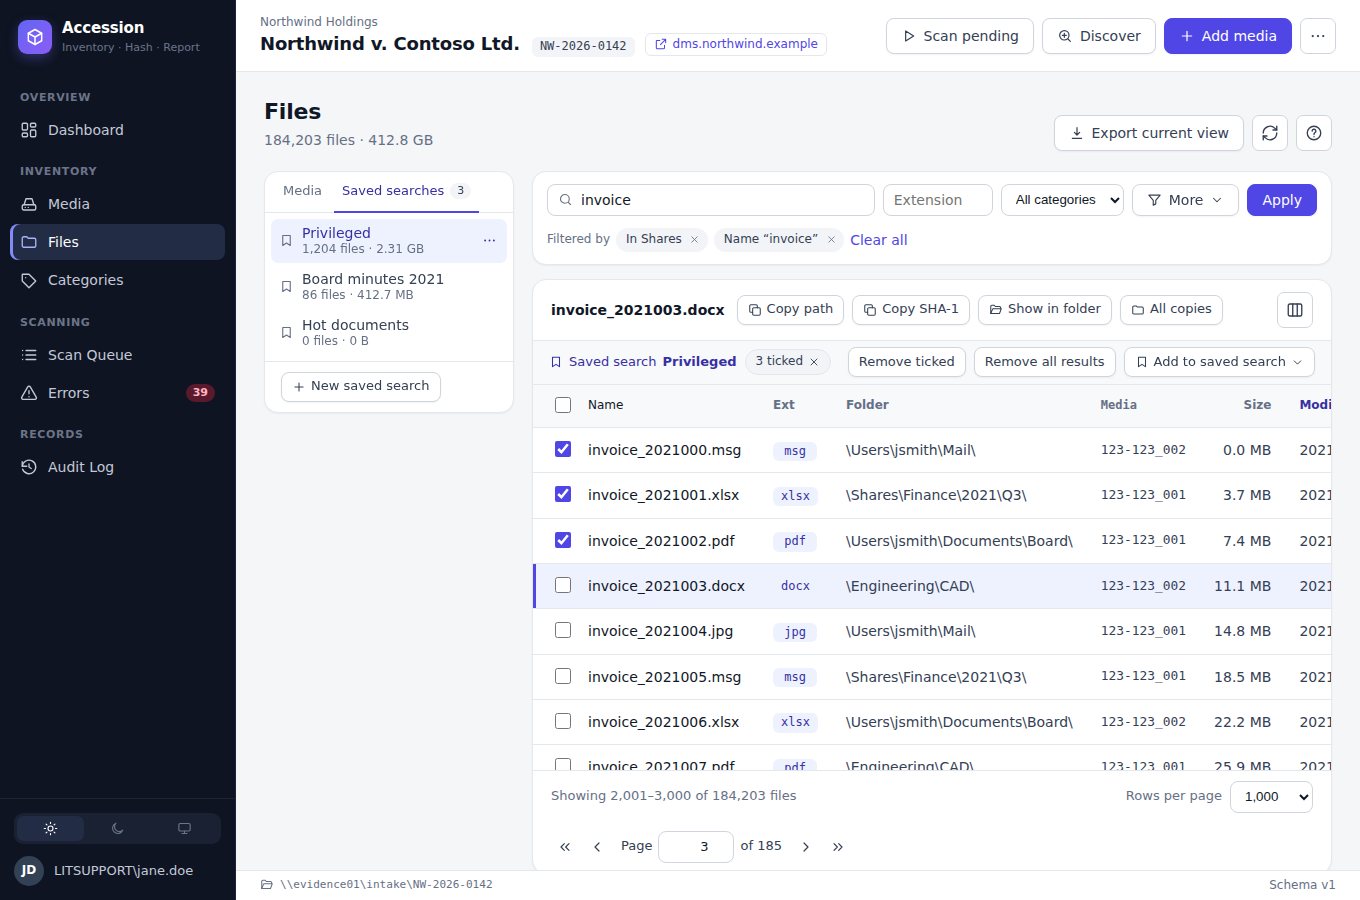
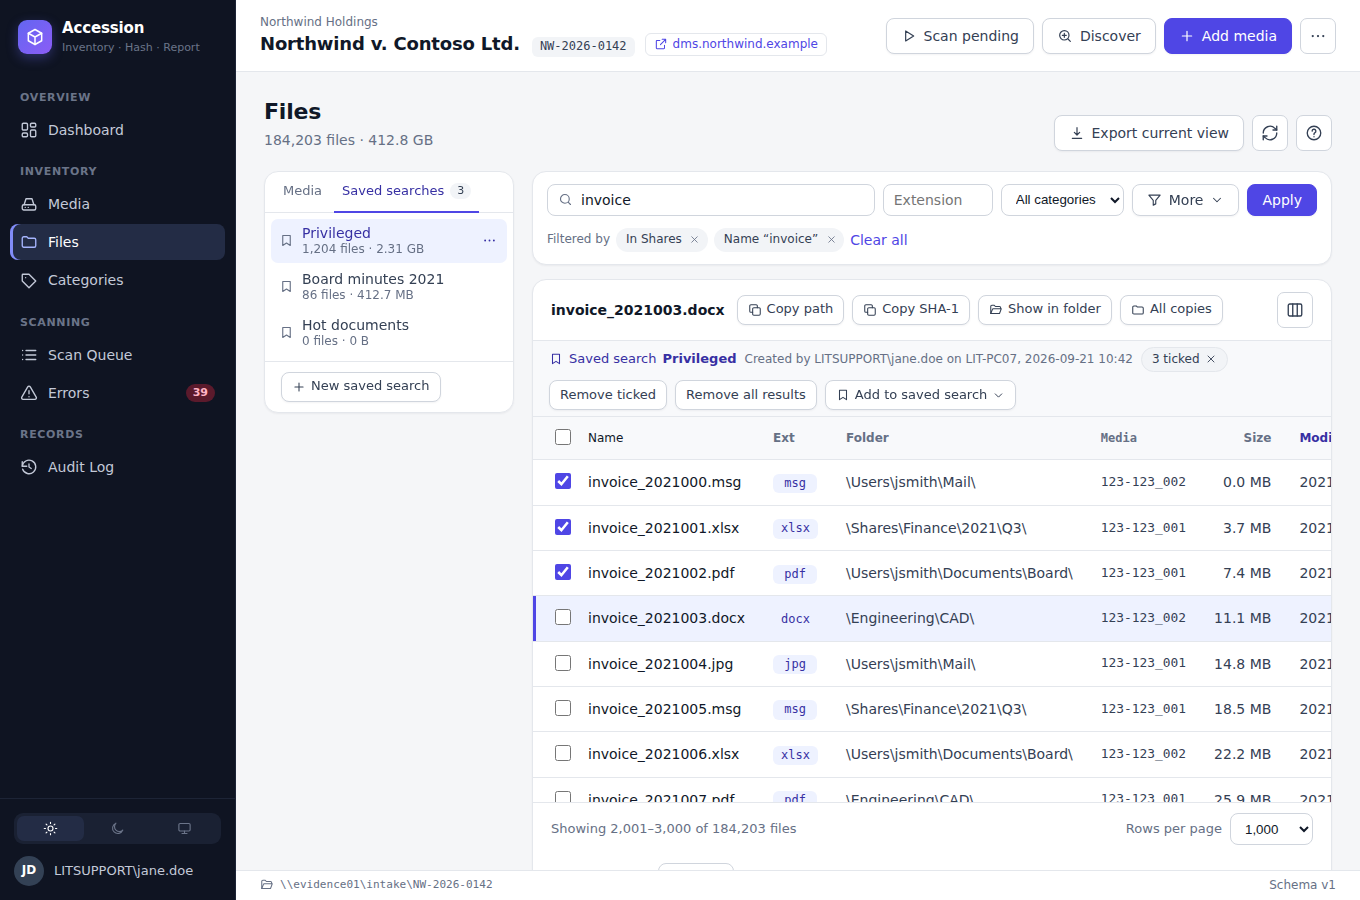
Saved searches: record the computer; show who created it and where
- Schema v3: SavedSearch.CreatedOnMachine and ModifiedOnMachine, next to
  the user and time already kept. Creating, editing and adding or removing
  files record this computer. A v2 inventory is upgraded with a backup;
  existing saved searches take the computer from the audit log entry of
  their creation (and last change).
- When a saved search is shown, the bar above the table says "Created by
  CORP\jdoe on WS-114, 2026-09-27 14:10"; the list's tooltip shows the
  description and the same line. The edit dialog shows Created and Last
  changed (user, computer, time).
- Help text, screenshots and SAV-01 updated.

Closes #85

Claude-Session: https://claude.ai/code/session_01UTQuWakbAyEFAKq5RSeUfc

Changed region(s): [[0.4015, 0.3733, 0.9882, 0.9644]]

diff --git a/src/Accession.App/wwwroot/help/index.html b/src/Accession.App/wwwroot/help/index.html
@@ -200,7 +200,8 @@
                     <p>A file already in the list is not added twice.</p>
                     <h3>Working with a saved search</h3>
                     <ul>
-                        <li>Click it on the <strong>Saved searches</strong> tab to show its files; the filters narrow within it.</li>
+                        <li>Click it on the <strong>Saved searches</strong> tab to show its files; the filters narrow within it. The bar above
+                            the table shows who created it, on which computer and when (hover over it in the list for the description too).</li>
                         <li><strong>Remove ticked</strong> and <strong>Remove all results</strong> take files out of it (the files themselves
                             are not changed).</li>
                         <li>The <strong>⋯</strong> menu has <strong>Edit</strong> (name and description) and <strong>Delete</strong>.</li>

diff --git a/src/Accession.Data/SavedSearches/SavedSearchService.cs b/src/Accession.Data/SavedSearches/SavedSearchService.cs
@@ -18,8 +18,13 @@ public sealed class SavedSearchInfo
     public long TotalBytes { get; init; }
     public DateTimeOffset CreatedAtUtc { get; init; }
     public string CreatedBy { get; init; } = string.Empty;
+
+    /// <summary>Null for saved searches from before schema v3 whose creation is not in the audit log.</summary>
+    public string? CreatedOnMachine { get; init; }
+
     public DateTimeOffset ModifiedAtUtc { get; init; }
     public string ModifiedBy { get; init; } = string.Empty;
+    public string? ModifiedOnMachine { get; init; }
 }
 
 /// <summary>Another saved search already has this name.</summary>
@@ -41,7 +46,8 @@ public sealed class SavedSearchService(InventorySessionFactory factory)
         using var scope = database.Open();
         return scope.Connection.Query<SavedSearchInfo>(new CommandDefinition(
             """
-            SELECT s.SavedSearchId, s.Name, s.Description, s.CreatedAtUtc, s.CreatedBy, s.ModifiedAtUtc, s.ModifiedBy,
+            SELECT s.SavedSearchId, s.Name, s.Description, s.CreatedAtUtc, s.CreatedBy, s.CreatedOnMachine,
+                   s.ModifiedAtUtc, s.ModifiedBy, s.ModifiedOnMachine,
                    COUNT(f.FileId) AS FileCount, COALESCE(SUM(f.SizeBytes), 0) AS TotalBytes
             FROM SavedSearch s
             LEFT JOIN SavedSearchFile sf ON sf.SavedSearchId = s.SavedSearchId
@@ -80,11 +86,11 @@ public sealed class SavedSearchService(InventorySessionFactory factory)
             var now = UtcTimestamp.ToText(factory.TimeProvider.GetUtcNow());
             var id = SaveName(cleanName, () => scope.Connection.ExecuteScalar<long>(
                 """
-                INSERT INTO SavedSearch (Name, Description, CreatedAtUtc, CreatedBy, ModifiedAtUtc, ModifiedBy)
-                VALUES (@cleanName, @cleanDescription, @now, @user, @now, @user);
+                INSERT INTO SavedSearch (Name, Description, CreatedAtUtc, CreatedBy, CreatedOnMachine, ModifiedAtUtc, ModifiedBy, ModifiedOnMachine)
+                VALUES (@cleanName, @cleanDescription, @now, @user, @machine, @now, @user, @machine);
                 SELECT last_insert_rowid();
                 """,
-                new { cleanName, cleanDescription, now, user = session.UserName }, scope.Transaction));
+                new { cleanName, cleanDescription, now, user = session.UserName, machine = factory.User.MachineName }, scope.Transaction));
             session.Audit.Write(scope, AuditAction.SavedSearchCreated, details: new { SavedSearchId = id, Name = cleanName, Description = cleanDescription });
             return id;
         });
@@ -99,10 +105,15 @@ public sealed class SavedSearchService(InventorySessionFactory factory)
             var before = Get(scope, savedSearchId);
             SaveName(cleanName, () => scope.Connection.Execute(
                 """
-                UPDATE SavedSearch SET Name = @cleanName, Description = @cleanDescription, ModifiedAtUtc = @now, ModifiedBy = @user
+                UPDATE SavedSearch SET Name = @cleanName, Description = @cleanDescription, ModifiedAtUtc = @now, ModifiedBy = @user,
+                    ModifiedOnMachine = @machine
                 WHERE SavedSearchId = @savedSearchId
                 """,
-                new { cleanName, cleanDescription, now = UtcTimestamp.ToText(factory.TimeProvider.GetUtcNow()), user = session.UserName, savedSearchId },
+                new
+                {
+                    cleanName, cleanDescription, now = UtcTimestamp.ToText(factory.TimeProvider.GetUtcNow()), user = session.UserName,
+                    machine = factory.User.MachineName, savedSearchId,
+                },
                 scope.Transaction));
             session.Audit.Write(scope, AuditAction.SavedSearchChanged, details: new
             {
@@ -237,8 +248,8 @@ public sealed class SavedSearchService(InventorySessionFactory factory)
 
     private void Touch(DbScope scope, long savedSearchId, string user) =>
         scope.Connection.Execute(
-            "UPDATE SavedSearch SET ModifiedAtUtc = @now, ModifiedBy = @user WHERE SavedSearchId = @savedSearchId",
-            new { now = UtcTimestamp.ToText(factory.TimeProvider.GetUtcNow()), user, savedSearchId }, scope.Transaction);
+            "UPDATE SavedSearch SET ModifiedAtUtc = @now, ModifiedBy = @user, ModifiedOnMachine = @machine WHERE SavedSearchId = @savedSearchId",
+            new { now = UtcTimestamp.ToText(factory.TimeProvider.GetUtcNow()), user, machine = factory.User.MachineName, savedSearchId }, scope.Transaction);
 
     private sealed class NameRow
     {

diff --git a/tests/Accession.Tests/Presentation/FilesSavedSearchTests.cs b/tests/Accession.Tests/Presentation/FilesSavedSearchTests.cs
@@ -65,6 +65,8 @@ public sealed class FilesSavedSearchTests : IDisposable
 
         var row = Assert.Single(vm.SavedSearches);
         Assert.Equal(("PDFs", "30 files"), (row.Name, row.Files));
+        Assert.StartsWith(@"Created by CORP\jdoe on WS-114, ", row.Created, StringComparison.Ordinal);
+        Assert.Equal("from M2\n" + row.Created, row.Tooltip);
 
         vm.SelectedSavedSearch = row;
         await Idle(vm);
@@ -159,13 +161,28 @@ public sealed class FilesSavedSearchTests : IDisposable
 
         Assert.Contains("New saved search", html);
         Assert.Contains("Another saved search already has this name.", html);
+        Assert.DoesNotContain("Last changed", html); // only when editing
         Assert.Contains("Description", html);
         Assert.Contains(">Create<", html);
     }
 
+    [Fact]
+    public async Task Edit_form_shows_who_created_and_changed_it_where()
+    {
+        var id = _service.Create(_test.Session, "Hot docs", null);
+        var info = _service.List(_test.Session.Database).Single(s => s.SavedSearchId == id);
+        var vm = new SavedSearchViewModel(_test.Session, _service, info, Accession.Core.Settings.DisplayTimeZone.Utc);
+
+        var html = await Accession.Tests.WebUi.FormDialogTests.Render(Accession.Presentation.WebForms.DialogForms.Build(vm, () => { })!, "form-saved-search-edit");
+
+        Assert.Contains("Edit saved search", html);
+        Assert.Contains(@"Created by CORP\jdoe on WS-114, 2026-09-27 09:00", html);
+        Assert.Contains("Last changed by CORP", html);
+    }
+
     private async Task<WebFilesViewModel> Create()
     {
-        var workflow = new SavedSearchWorkflow(_host, _service, _dialogs, new BusyTracker(TimeProvider.System), _toasts,
+        var workflow = new SavedSearchWorkflow(_host, _service, _settings, _dialogs, new BusyTracker(TimeProvider.System), _toasts,
             NullLogger<SavedSearchWorkflow>.Instance);
         var vm = new WebFilesViewModel(_host, new FileBrowserQueries(), new CategoryQueries(), _settings, new RecordingDesktop(), _dialogs,
             _toasts, NullLogger<WebFilesViewModel>.Instance, savedSearches: workflow);

diff --git a/src/Accession.Presentation/ViewModels/SavedSearchViewModel.cs b/src/Accession.Presentation/ViewModels/SavedSearchViewModel.cs
@@ -1,3 +1,5 @@
+using Accession.Core.Formatting;
+using Accession.Core.Settings;
 using Accession.Data.SavedSearches;
 using Accession.Data.Sessions;
 using Accession.Presentation.Mvvm;
@@ -15,8 +17,15 @@ public sealed partial class SavedSearchViewModel : DialogViewModelBase
     private bool _tried;
 
     /// <param name="existing">The saved search to edit, or null for a new one.</param>
-    public SavedSearchViewModel(InventorySession session, SavedSearchService service, SavedSearchInfo? existing = null)
+    public SavedSearchViewModel(InventorySession session, SavedSearchService service, SavedSearchInfo? existing = null,
+        DisplayTimeZone zone = DisplayTimeZone.Local)
     {
+        if (existing is not null)
+        {
+            CreatedText = Describe("Created", existing.CreatedBy, existing.CreatedOnMachine, existing.CreatedAtUtc, zone);
+            ChangedText = Describe("Last changed", existing.ModifiedBy, existing.ModifiedOnMachine, existing.ModifiedAtUtc, zone);
+        }
+
         _session = session;
         _service = service;
         _savedSearchId = existing?.SavedSearchId;
@@ -26,6 +35,15 @@ public sealed partial class SavedSearchViewModel : DialogViewModelBase
     }
 
     public bool IsNew => _savedSearchId is null;
+
+    /// <summary>"Created by CORP\jdoe on WS-114, 2026-09-27 14:10" (empty for a new saved search).</summary>
+    public string CreatedText { get; } = string.Empty;
+
+    public string ChangedText { get; } = string.Empty;
+
+    /// <summary>"Created by CORP\jdoe on WS-114, 2026-09-27 14:10"; the computer is left out when it is not known.</summary>
+    public static string Describe(string what, string user, string? machine, DateTimeOffset atUtc, DisplayTimeZone zone) =>
+        $"{what} by {user}{(string.IsNullOrEmpty(machine) ? string.Empty : $" on {machine}")}, {TimeFormatter.Format(atUtc, zone)}";
 
     public string SaveText => IsNew ? "Create" : "Save";
 

diff --git a/tests/Accession.Tests/SavedSearches/SavedSearchServiceTests.cs b/tests/Accession.Tests/SavedSearches/SavedSearchServiceTests.cs
@@ -54,6 +54,8 @@ public sealed class SavedSearchServiceTests : IDisposable
         var info = Assert.Single(_service.List(_test.Session.Database));
         Assert.Equal(("Privileged", "Attorney emails", 0L, 0L), (info.Name, info.Description, info.FileCount, info.TotalBytes));
         Assert.Equal(@"CORP\jdoe", info.CreatedBy);
+        Assert.Equal("WS-114", info.CreatedOnMachine);
+        Assert.Equal("WS-114", info.ModifiedOnMachine);
 
         _service.Update(_test.Session, id, "Privileged (reviewed)", " ");
         info = Assert.Single(_service.List(_test.Session.Database));
@@ -66,6 +68,19 @@ public sealed class SavedSearchServiceTests : IDisposable
         Assert.Equal([AuditAction.SavedSearchCreated, AuditAction.SavedSearchChanged, AuditAction.SavedSearchDeleted],
             _test.Session.Audit.Query(new AuditQuery { Actions = [AuditAction.SavedSearchCreated, AuditAction.SavedSearchChanged, AuditAction.SavedSearchDeleted] })
                 .Select(a => a.Action).Reverse());
+    }
+
+    [Fact]
+    public void Upgrading_a_version_2_inventory_takes_the_computer_from_the_audit_log()
+    {
+        var id = _service.Create(_test.Session, "Before v3", null);
+        _test.Session.Close();
+        Accession.Tests.TestSupport.SchemaDowngrade.ToV2(_test.Session.DbPath);
+
+        new Accession.Data.Migrations.MigrationRunner(_test.Time).Upgrade(_test.Session.DbPath, @"CORP\jdoe", "0.3.0");
+
+        var info = Assert.Single(_service.List(new Accession.Data.InventoryDatabase(_test.Session.DbPath)));
+        Assert.Equal((id, "WS-114", "WS-114"), (info.SavedSearchId, info.CreatedOnMachine, info.ModifiedOnMachine));
     }
 
     [Fact]

diff --git a/src/Accession.Data/Migrations/V003SavedSearchMachine.cs b/src/Accession.Data/Migrations/V003SavedSearchMachine.cs
@@ -1,0 +1,33 @@
+using Accession.Data.Schema;
+using Dapper;
+using Microsoft.Data.Sqlite;
+
+namespace Accession.Data.Migrations;
+
+/// <summary>
+/// Schema v3: SavedSearch.CreatedOnMachine and ModifiedOnMachine. Existing saved searches get the computer from the
+/// audit log entry that recorded their creation (and their last change).
+/// </summary>
+internal sealed class V003SavedSearchMachine : IMigration
+{
+    public const string Script = "V003_SavedSearchMachine.sql";
+
+    public int ToVersion => 3;
+
+    public void Apply(SqliteConnection connection, SqliteTransaction transaction)
+    {
+        connection.Execute(InventorySchema.LoadScript(Script), transaction: transaction);
+        connection.Execute(
+            """
+            UPDATE SavedSearch SET
+                CreatedOnMachine = (SELECT a.MachineName FROM AuditLog a
+                    WHERE a.Action = 'SavedSearchCreated' AND json_extract(a.Details, '$.savedSearchId') = SavedSearch.SavedSearchId
+                    ORDER BY a.AuditId LIMIT 1),
+                ModifiedOnMachine = (SELECT a.MachineName FROM AuditLog a
+                    WHERE a.Action IN ('SavedSearchCreated', 'SavedSearchChanged', 'SavedSearchFilesAdded', 'SavedSearchFilesRemoved')
+                      AND json_extract(a.Details, '$.savedSearchId') = SavedSearch.SavedSearchId
+                    ORDER BY a.AuditId DESC LIMIT 1)
+            """,
+            transaction: transaction);
+    }
+}

diff --git a/src/Accession.Presentation/ViewModels/Browsing/WebFilesViewModel.cs b/src/Accession.Presentation/ViewModels/Browsing/WebFilesViewModel.cs
@@ -12,6 +12,7 @@ using Accession.Data.SavedSearches;
 using Accession.Presentation.Mvvm;
 using Accession.Presentation.Platform;
 using Accession.Presentation.Services;
+using Accession.Presentation.ViewModels;
 using Accession.UI.Components;
 using Accession.UI.FilesScreen;
 using CommunityToolkit.Mvvm.ComponentModel;
@@ -252,13 +253,15 @@ public sealed partial class WebFilesViewModel : ViewModelBase, IFilesModel, IDis
     private void LoadSavedSearches()
     {
         var unit = _settings.Current.SizeUnit;
+        var zone = _settings.Current.DisplayTimeZone;
         var culture = CultureInfo.CurrentCulture;
         var selectedId = SelectedSavedSearch?.Id;
         SavedSearches.Clear();
         foreach (var s in _savedSearchWorkflow?.List() ?? [])
         {
             SavedSearches.Add(new SavedSearchRow(s.SavedSearchId, s.Name, s.Description ?? string.Empty, s.FileCount,
-                s.FileCount == 1 ? "1 file" : $"{s.FileCount.ToString("N0", culture)} files", SizeFormatter.Format(s.TotalBytes, unit)));
+                s.FileCount == 1 ? "1 file" : $"{s.FileCount.ToString("N0", culture)} files", SizeFormatter.Format(s.TotalBytes, unit),
+                SavedSearchViewModel.Describe("Created", s.CreatedBy, s.CreatedOnMachine, s.CreatedAtUtc, zone)));
         }
 
         // Keep the shown saved search selected (the row objects are new) without reloading the files.

diff --git a/src/Accession.UI/FilesScreen/FileRow.cs b/src/Accession.UI/FilesScreen/FileRow.cs
@@ -20,8 +20,12 @@ public sealed record FileRow(
 /// <summary>A choice in a select box. An empty <see cref="Value"/> means "any".</summary>
 public sealed record SelectOption(string Value, string Label);
 
-/// <summary>A saved search in the Files screen's list.</summary>
-public sealed record SavedSearchRow(long Id, string Name, string Description, long FileCount, string Files, string Size);
+/// <summary>A saved search in the Files screen's list; <see cref="Created"/> reads "Created by … on …, date".</summary>
+public sealed record SavedSearchRow(long Id, string Name, string Description, long FileCount, string Files, string Size, string Created = "")
+{
+    /// <summary>Tooltip: the description and who created it where.</summary>
+    public string Tooltip => string.IsNullOrEmpty(Description) ? Created : $"{Description}\n{Created}";
+}
 
 /// <summary>An applied filter shown as a chip; <see cref="Key"/> is passed to the remove command (see <see cref="FilterKeys"/>).</summary>
 public sealed record FilterChip(string Key, string Label);

diff --git a/tests/Accession.Tests/WebUi/FakeFiles.cs b/tests/Accession.Tests/WebUi/FakeFiles.cs
@@ -12,8 +12,10 @@ internal sealed partial class FakeFiles : ObservableObject, IFilesModel
     public FakeFiles(int rows = 40, bool counting = false, bool savedSearchShown = false, int ticked = 0)
     {
         IsCounting = counting;
-        SavedSearches.Add(new SavedSearchRow(1, "Privileged", "Emails with outside counsel", 1_204, "1,204 files", "2.31 GB"));
-        SavedSearches.Add(new SavedSearchRow(2, "Board minutes 2021", string.Empty, 86, "86 files", "412.7 MB"));
+        SavedSearches.Add(new SavedSearchRow(1, "Privileged", "Emails with outside counsel", 1_204, "1,204 files", "2.31 GB",
+            @"Created by LITSUPPORT\jane.doe on LIT-PC07, 2026-09-21 10:42"));
+        SavedSearches.Add(new SavedSearchRow(2, "Board minutes 2021", string.Empty, 86, "86 files", "412.7 MB",
+            @"Created by LITSUPPORT\john.roe on LIT-PC12, 2026-09-22 16:05"));
         SavedSearches.Add(new SavedSearchRow(3, "Hot documents", "For the first review round", 0, "0 files", "0 B"));
         if (savedSearchShown)
         {

diff --git a/tests/Accession.Tests/Data/MigrationTests.cs b/tests/Accession.Tests/Data/MigrationTests.cs
@@ -61,7 +61,7 @@ public sealed class MigrationTests : IDisposable
     }
 
     [Fact]
-    public void Version_1_inventory_gets_the_saved_search_tables_and_keeps_its_data()
+    public void Version_1_inventory_is_upgraded_to_the_current_schema_and_keeps_its_data()
     {
         using (var scope = _inventory.Database.Open())
         {
@@ -70,7 +70,7 @@ public sealed class MigrationTests : IDisposable
 
         var result = new MigrationRunner(_time).Upgrade(_inventory.DbPath, @"CORP\jdoe", "0.2.0");
 
-        Assert.Equal((1, 2), (result.FromVersion, result.ToVersion));
+        Assert.Equal((1, InventorySchema.CurrentVersion), (result.FromVersion, result.ToVersion)); // every migration in one go
         Assert.Equal(SchemaState.Current, SchemaInspector.Inspect(_inventory.DbPath).State);
         using var check = _inventory.Database.Open();
         Assert.Equal(2, check.Connection.ExecuteScalar<long>("SELECT COUNT(*) FROM sqlite_master WHERE name IN ('SavedSearch', 'SavedSearchFile')"));

diff --git a/tests/Accession.Tests/TestSupport/SchemaDowngrade.cs b/tests/Accession.Tests/TestSupport/SchemaDowngrade.cs
@@ -6,6 +6,19 @@ namespace Accession.Tests.TestSupport;
 /// <summary>Turns a newly created inventory back into a schema v1 file, as older versions of Accession wrote it.</summary>
 public static class SchemaDowngrade
 {
+    /// <summary>A schema v2 file: saved searches without the computer columns.</summary>
+    public static void ToV2(string dbPath)
+    {
+        using var connection = SqliteConnectionFactory.Open(dbPath);
+        connection.Execute(
+            """
+            ALTER TABLE SavedSearch DROP COLUMN CreatedOnMachine;
+            ALTER TABLE SavedSearch DROP COLUMN ModifiedOnMachine;
+            UPDATE SchemaMigration SET Version = 2;
+            UPDATE InventoryConfig SET SchemaVersion = 2;
+            """);
+    }
+
     public static void ToV1(string dbPath)
     {
         using var connection = SqliteConnectionFactory.Open(dbPath);

diff --git a/src/Accession.Presentation/Services/SavedSearchWorkflow.cs b/src/Accession.Presentation/Services/SavedSearchWorkflow.cs
@@ -15,6 +15,7 @@ namespace Accession.Presentation.Services;
 public sealed class SavedSearchWorkflow(
     InventoryHost host,
     SavedSearchService service,
+    Accession.Core.Settings.ISettingsService settings,
     IDialogService dialogs,
     BusyTracker busy,
     ToastService toasts,
@@ -57,7 +58,7 @@ public sealed class SavedSearchWorkflow(
     {
         ArgumentNullException.ThrowIfNull(savedSearch);
         return host.Session is { IsReadOnly: false } session
-            && dialogs.ShowDialog(new SavedSearchViewModel(session, service, savedSearch)) == true;
+            && dialogs.ShowDialog(new SavedSearchViewModel(session, service, savedSearch, settings.Current.DisplayTimeZone)) == true;
     }
 
     /// <summary>Deletes after asking. Returns true if deleted.</summary>
